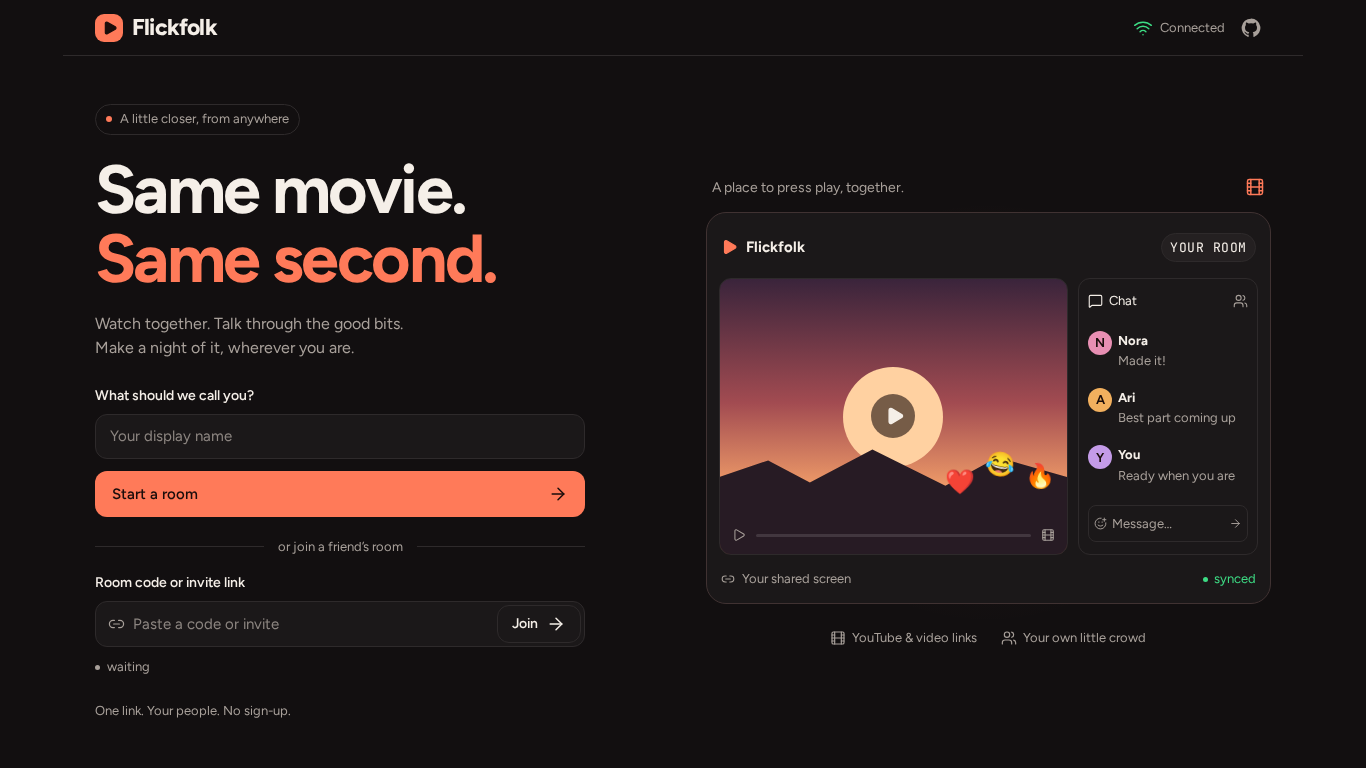
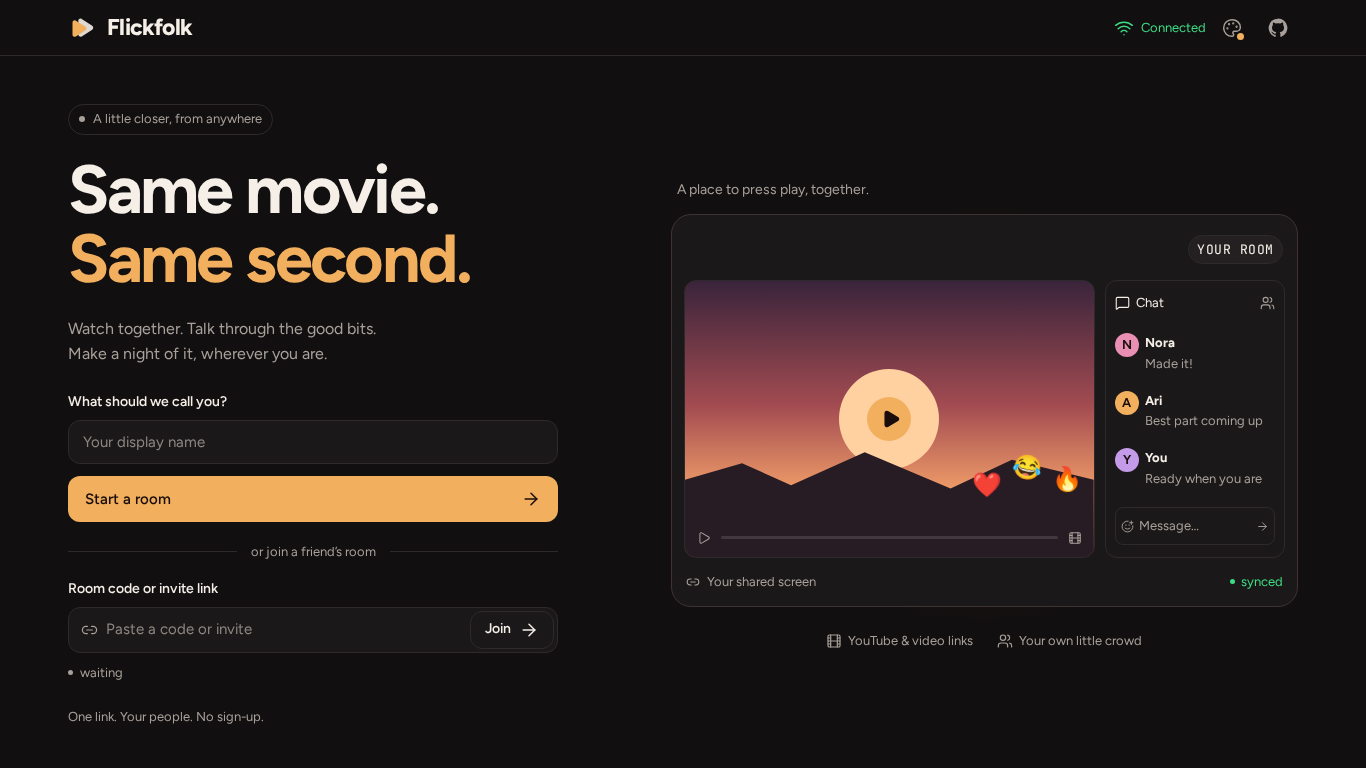
docs: add assignment evaluator guide and current screenshots

diff --git a/README.md b/README.md
@@ -4,12 +4,51 @@
 
 A signup-free shared watch room with synchronized media playback, peer-to-peer
 voice, live reactions and collaborative chat. The Warm Dusk interface uses local
-Figtree/JetBrains Mono fonts, coral controls and deterministic initials avatars.
+Figtree/JetBrains Mono fonts, configurable accent controls and deterministic initials avatars.
 No accounts, camera, database or paid service are required for the core app.
 
 **Live:** [flickfolk.onrender.com](https://flickfolk.onrender.com)
 
 [Live app](https://flickfolk.onrender.com) · [Source](https://github.com/kmanisk/flickfolk) · [Deployment guide](DEPLOY.md) · [Design](DESIGN.md)
+
+## Try it in 60 seconds
+
+1. Open Window A and enter a display name. Start a room.
+2. Copy the invite and join from Window B/incognito with another name.
+3. In A, use the bottom source chip to load a YouTube URL. Press Play.
+4. In B, playback controls are restricted. Open Requests and choose Request pause.
+5. In A, open Requests and approve. Both players pause.
+6. In A, open People, manage B and choose Make moderator.
+7. In B, play/pause/seek directly; A follows the authoritative timeline.
+8. In A, manage B and remove them, confirming the action.
+9. B sees the removal screen; refreshing cannot automatically rejoin. Back home
+   allows an intentional fresh join. No account is required.
+
+## Roles and participant requests
+
+| Capability | Host | Moderator | Participant |
+| --- | --- | --- | --- |
+| Play/pause | Direct | Direct | Request |
+| Seek | Direct | Direct | Request |
+| Change video | Direct | Direct | Request |
+| Approve requests | Yes | Yes | No |
+| Assign roles | Yes | No | No |
+| Remove users | Yes | No | No |
+| Chat | Yes | Yes | Yes |
+| Reactions | Yes | Yes | Yes |
+| Voice | Yes | Yes | Yes |
+
+The server reads roles from its own participant state on every privileged command.
+UI checks explain permissions; they provide no security boundary. Provider capability
+restrictions apply to every role, including approved requests. Reviewers receive a
+private queue: at most three pending requests per participant, one per action, for
+60 seconds. A playback revision/source change, departure or role change invalidates
+stale requests. Approvals use exactly the same mutation path as direct controls.
+The host can promote/demote and kick. Removal is a kick, not a permanent ban.
+Host failover prefers the first Moderator, then the first Participant. Socket
+replacement preserves roles; reconnect within 30s restores a Moderator/Participant
+role while the room exists. A departed Host returns as Moderator after failover,
+so the new Host retains authority and there is always exactly one Host.
 
 ## Development
 
@@ -45,7 +84,7 @@ in-memory rooms and no persistence: restarting loses rooms, messages and invites
 ## What works
 
 - Create/join by six-character code or invite URL, with debounced room lookup.
-- Host-authoritative timeline controls for YouTube, direct video/audio, Twitch VOD and SoundCloud.
+- Server-authoritative Host/Moderator timeline controls for YouTube, direct video/audio, Twitch VOD and SoundCloud.
 - Capability-aware Twitch live, Spotify and Kick embeds without invented timeline sync.
 - Late joins, reconnect identity where Socket.IO recovery is available, host promotion.
 - Audio-only WebRTC voice with actual RMS speaking rings and a fullscreen speaker overlay.
@@ -61,6 +100,7 @@ hidden. Validated direct image/GIF links remain available under the emoji picker
 ## Screenshots
 
 ![Flickfolk Home at 1366×768](docs/screenshots/home-1366.png)
+![Flickfolk Home at 390×844](docs/screenshots/home-390.png)
 ![Flickfolk Room at 1366×768](docs/screenshots/room-1366.png)
 ![Flickfolk Room at 390×844](docs/screenshots/room-390.png)
 
@@ -78,6 +118,46 @@ The server serves the built client in production. Hashed assets have one-year
 immutable caching; HTML is revalidated. Compression and Helmet CSP are enabled.
 The UI uses Lucide individual imports and self-hosted Fontsource latin fonts.
 
+### WebSocket flow
+
+```mermaid
+sequenceDiagram
+    participant P as Participant
+    participant S as Socket.IO Server
+    participant H as Host / Moderator
+    P->>S: room:join
+    S-->>P: room:state
+    H->>S: playback:control
+    S->>S: validate role + capability
+    S-->>P: room:state
+    P->>S: control:request
+    S-->>H: control:requests
+    H->>S: control:resolve
+    S->>S: run same playback mutation
+    S-->>P: room:state + control:result
+```
+
+Full authoritative snapshots keep participants, roles, media and playback together,
+reducing divergence between clients. Playback has a revision; same-revision snapshots
+still carry chat/presence updates. Reviewer queues are separate and never enter the
+public room snapshot.
+
+| Assignment wording | Flickfolk event |
+| --- | --- |
+| `join_room` | `room:join` |
+| `leave_room` | `room:leave` |
+| `sync_state` | `room:state` |
+| `play` | `playback:control {action:"play"}` |
+| `pause` | `playback:control {action:"pause"}` |
+| `seek` | `playback:control {action:"seek"}` |
+| `change_video` | `media:set` |
+| `assign_role` | `role:assign` |
+| `remove_participant` | `participant:remove` |
+| `user_joined` | `room:state` |
+| `user_left` | `room:state` |
+| `role_assigned` | `role:assigned` + `room:state` |
+| `participant_removed` | `participant:removed` + `room:state` |
+
 ### Sync algorithm
 
 The server owns position, timestamp, playing state and revision; the wire protocol is preserved.
@@ -88,7 +168,7 @@ Visible playing clients measure drift at 1Hz, skipping buffering/seeking players
 Files nudge by 5% after two bad samples; active nudges stop below 50ms.
 Normal file deadband is 120ms; drift above 2s seeks. YouTube seeks above 600ms, at most every 4s.
 Programmatic actions have a 600ms echo guard; rate changes never emit commands.
-Host commands are clamped and throttled, with final scrubs emitted on release.
+Host/Moderator commands are clamped and throttled, with final scrubs emitted on release.
 Autoplay denial waits for a gesture, then realigns to the current timestamp.
 Only playback is versioned: stale playback is dropped without discarding chat/presence.
 Telemetry is an external store publishing at most 4Hz; playback labels use DOM refs.
@@ -173,8 +253,8 @@ validated HTTPS hosts/file shapes only and renders no user HTML.
 
 | Key | Action |
 | --- | --- |
-| Space / K | Host play/pause |
-| J / L | Host seek −10s / +10s |
+| Space / K | Host/Moderator play/pause |
+| J / L | Host/Moderator seek −10s / +10s |
 | F / Escape | Stage fullscreen / exit |
 | X | Effects |
 | M | Mic mute after initial permission click |
@@ -184,7 +264,7 @@ validated HTTPS hosts/file shapes only and renders no user HTML.
 
 Shortcuts run at window capture and ignore only text entry (not ranges/buttons/tabs/links). Enter sends; Shift+Enter
 inserts a newline. Composer content is limited to 500 characters. Playback shortcuts
-use the same host/echo-guard path as the player controls. Settings contains ducking
+use the same role/echo-guard path as the player controls. Settings contains ducking
 and effects after the current source has actually played; detailed engine version/corrections are opt-in with `?debug=1`.
 
 ## Verification
@@ -204,6 +284,8 @@ WebRTC to verify RMS, normalization-path setup, ducking, mute/zero and cleanup.
 Provider browser tests mock official SDK boundaries while using the real room/socket/engine path.
 Synthetic tests do not certify live provider availability, accounts, physical microphones or relay infrastructure.
 GitHub Actions runs lint, typecheck, tests, build, Playwright and Docker verification on pushes and pull requests.
+The assignment-final local suite has 203 unit/integration tests and 36 browser tests.
+CI is the release gate, including the non-root Docker health smoke test.
 
 ## Deployment and scaling
 
@@ -215,7 +297,9 @@ health checks. Deployments track the `main` branch.
 
 The current service intentionally runs a single instance because authoritative room
 state, messages and invites are in memory. A restart or redeploy clears active rooms.
-This is acceptable for the current signup-free MVP and avoids requiring a database.
+A database is intentionally omitted because the assignment makes it optional for the MVP.
+The free Render service may cold-start after idle; the filesystem is not persistence.
+Redis is not implemented.
 
 For multiple instances, a Socket.IO Redis adapter can distribute broadcasts, but
 it does **not** make this in-memory authoritative room state shared or persistent.

diff --git a/DEPLOY.md b/DEPLOY.md
@@ -1,6 +1,7 @@
 # Deploying Flickfolk
 
-Preparation only. This pass creates/pushes GitHub source; it does not deploy.
+Deploy the verified main build to the existing single-instance Flickfolk service.
+Live: https://flickfolk.onrender.com. Never create a duplicate service for a release.
 Repository: https://github.com/kmanisk/flickfolk
 
 ## Local production check
@@ -29,14 +30,16 @@ The multi-stage image runs non-root, exposes 3001 and includes a health check.
 Docker has not been claimed tested if no local Docker engine is available; the CI
 Docker job must pass before release. Never put `.env`, keys or tokens in Git.
 
-## Render setup (when deployment is authorized)
+## Existing Render service configuration
 
-1. Connect the public `kmanisk/flickfolk` repository in Render.
-2. Create a Blueprint from `render.yaml`, or a single Node Web Service named `flickfolk`.
+1. Open the existing `flickfolk` Node Web Service linked to `kmanisk/flickfolk`.
+2. Confirm the linked branch is `main` and preserve the existing service/region.
 3. Root Directory: repository root. Build: `npm ci --include=dev && npm run build`.
 4. Start: `npm start`; Node 24; health check: `/healthz`; exactly one instance.
-5. Set `NODE_ENV=production`, `HOST=0.0.0.0`. Render supplies `PORT`; do not hardcode it.
-6. Keep automatic deployment off until physical-device and release checks are complete.
+5. Set `NODE_ENV=production`, `HOST=0.0.0.0`, `TRUST_PROXY=1`. Render supplies `PORT`; do not hardcode it.
+6. Merge only with green local/GitHub checks. Inspect deploy history for the exact
+   merged SHA. Monitor auto-deploy if present; if absent, trigger one manual deploy.
+   The checked-in Blueprint defaults auto-deploy off. Do not trigger duplicate deploys.
 7. Use the Render HTTPS URL for client and Socket.IO. The client uses the same origin.
 
 The server supports HTTP polling/WebSocket upgrades behind a reverse proxy, serves
@@ -103,17 +106,22 @@ Flickfolk itself stays signup-free: no Supabase keys, OAuth or database setup.
 - Room fits 1366×768 and phone viewport without page scroll/hidden controls.
 - Two tabs and phone/laptop synchronize play/pause/seek and late join.
 - YouTube embeds under CSP; direct HTTPS media loads; unavailable media fails clearly.
-- Guests cannot control host playback; host leave promotes someone; reconnect resyncs.
+- Participants cannot mutate playback; request/approve/deny works. Moderators can
+  control media but cannot manage roles/removal. Host departure favors a Moderator.
+- Role changes arrive immediately; removal survives refresh and blocks auto-rejoin.
+  Explicit fresh join remains possible; reconnect does not duplicate participants.
 - Chat text/paste remain inert; GIF images are constrained; reactions stay out of history.
 - Fullscreen retains controls/reactions/speakers; typing suppresses media shortcuts.
 - Actual RMS, mute states and disconnect cleanup work; ducking restores exact volume.
 - Fonts, favicon, title/OG description, asset cache headers and graceful shutdown work.
 - Logs contain no application chat, names, invite codes, headers or credentials.
 
-## Remaining before deployment
+## Optional assets and release gate
 
 - Supply/reconcile the missing `design/refs/room.png`; no pixel-match claim is made.
 - Add an approved 1200×630 `apps/client/public/og.png`; metadata currently references it.
-- Validate Docker/CI and the physical-device/TURN checks above.
+- Validate Docker/CI before release; physical-device/TURN checks remain important
+  when advertising voice support across restrictive networks.
 - Obtain GIPHY key/approval only if enabling optional search publicly.
-- Render deployment is cancelled for the current polish pass. Do not provision or deploy services; choose a non-Render target in a future deployment task.
+- Verify the existing Render deployment uses the exact merged main SHA and serves
+  the new frontend assets, healthy API, roles and request flows before submission.

diff --git a/ARCHITECTURE.md b/ARCHITECTURE.md
@@ -10,7 +10,7 @@ YouTube uses no fractional rate nudges and limits correction seeks to once per f
 Hidden/buffering/seeking players skip drift samples; visibility/reconnect resample the clock.
 Autoplay denial waits for a gesture, then targets the current timestamp instead of stale position.
 Only playback has revisions: duplicate playback is dropped without discarding chat/presence.
-Host commands are clamped and throttled; programmatic events are guarded for 600ms.
+Host/Moderator commands are clamped and throttled; programmatic events are guarded for 600ms.
 `syncStore.ts` exposes truthful snapshots at most 4Hz, read only by the statusline.
 Player time/range labels use refs; React renders UI changes, not a playback clock.
 
@@ -30,3 +30,23 @@ Spotify's official loader currently requires eval. `/spotify-bridge.html` scopes
 CSP exception to the provider frame; the main document keeps eval disabled. A private
 MessageChannel initialized only by the same-origin parent carries typed operations
 and measured playback updates. Unknown timestamps/drift display as unavailable.
+
+## Roles and approval boundary
+
+Client intent -> shared validation -> Socket.IO -> server reads role from room state
+-> shared `can(role, action)` -> `applyControl` -> authoritative room broadcast.
+The UI uses the same permission function for affordances; server enforcement is the
+security boundary. Role assignment and removal are Host-only. Moderator capabilities
+include playback/source and review, never management. Roles cannot be supplied at join.
+
+Participant -> bounded private request queue -> Host/Moderator -> approve -> same
+`applyControl` -> broadcast + requester result. Denial never mutates playback.
+Requests expire after 60s or a stale revision, departure or promotion. One timer per
+nonempty queue, no idle polling. Queues never appear in room snapshots.
+
+`setHost`/`promoteHost` preserve exactly one host matching `room.hostId`. Replacement
+sockets migrate role/host identity; a disconnected Host returning after failover is a
+Moderator. A bounded 30s role lease supports local client identity without accounts.
+Removal leaves the Socket.IO room and deletes session/queue membership, so controls
+and voice signals fail membership checks. The browser session removal marker stops
+automatic rejoin; it is not a permanent ban or an authentication mechanism.
